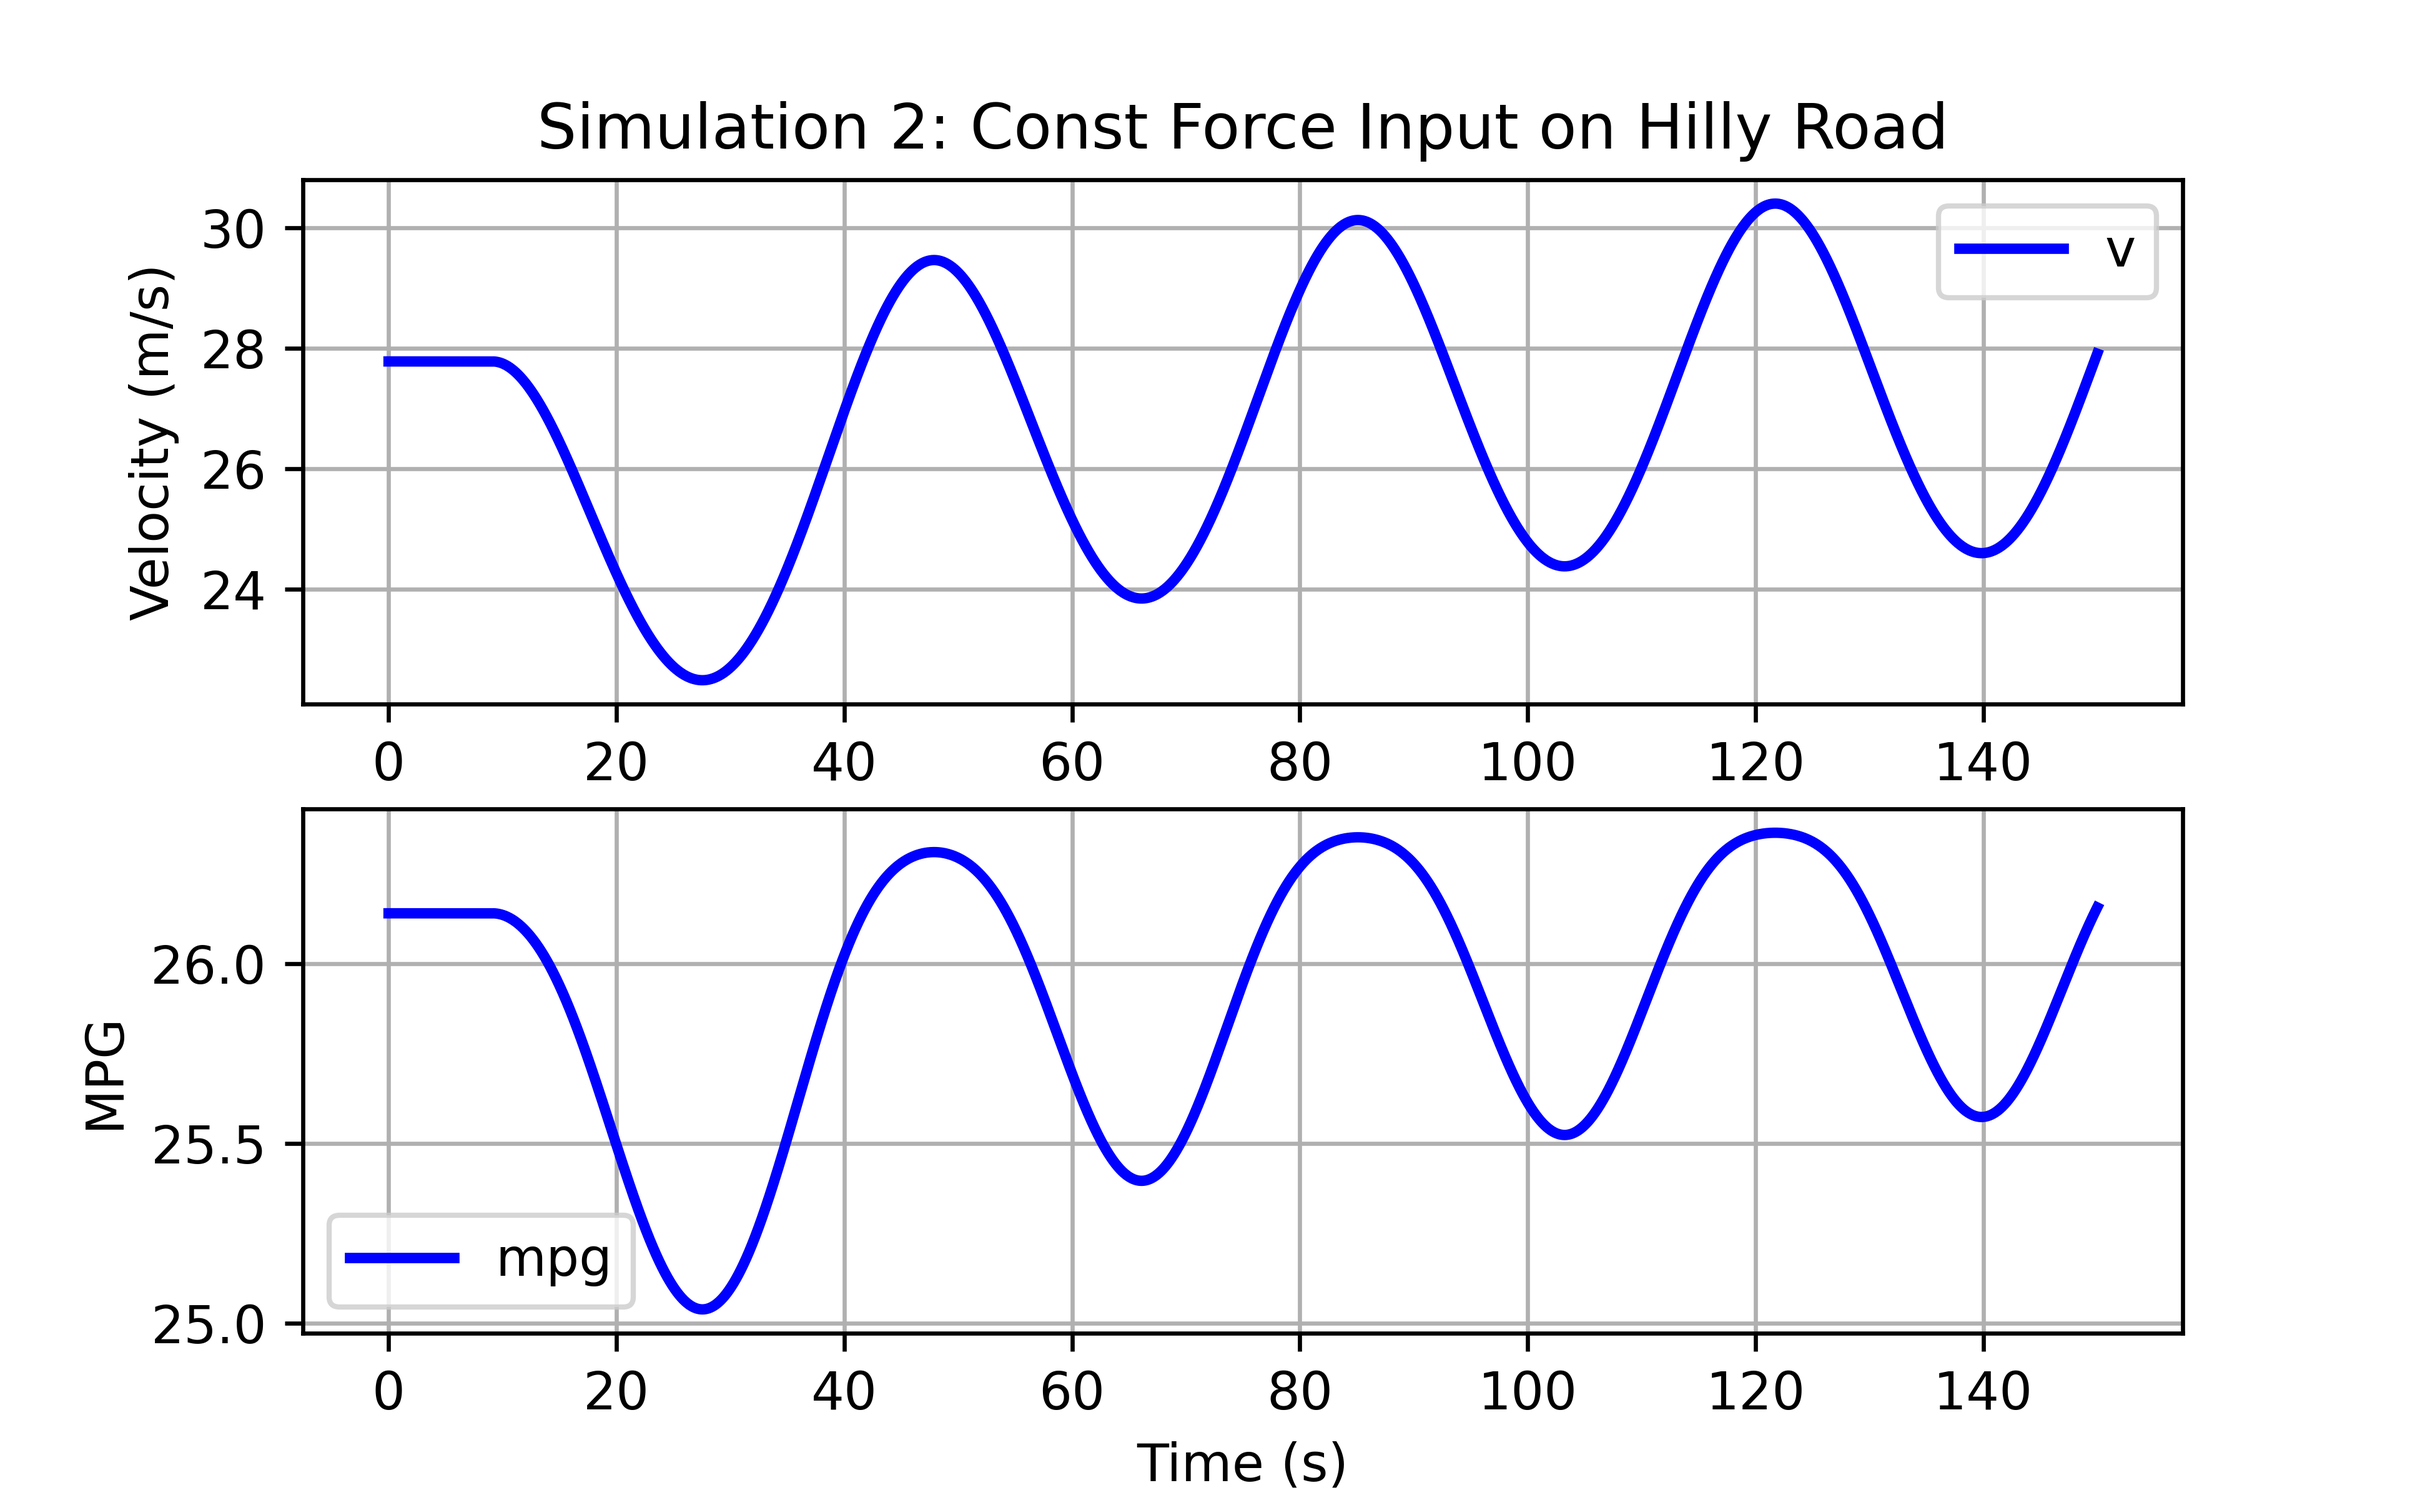
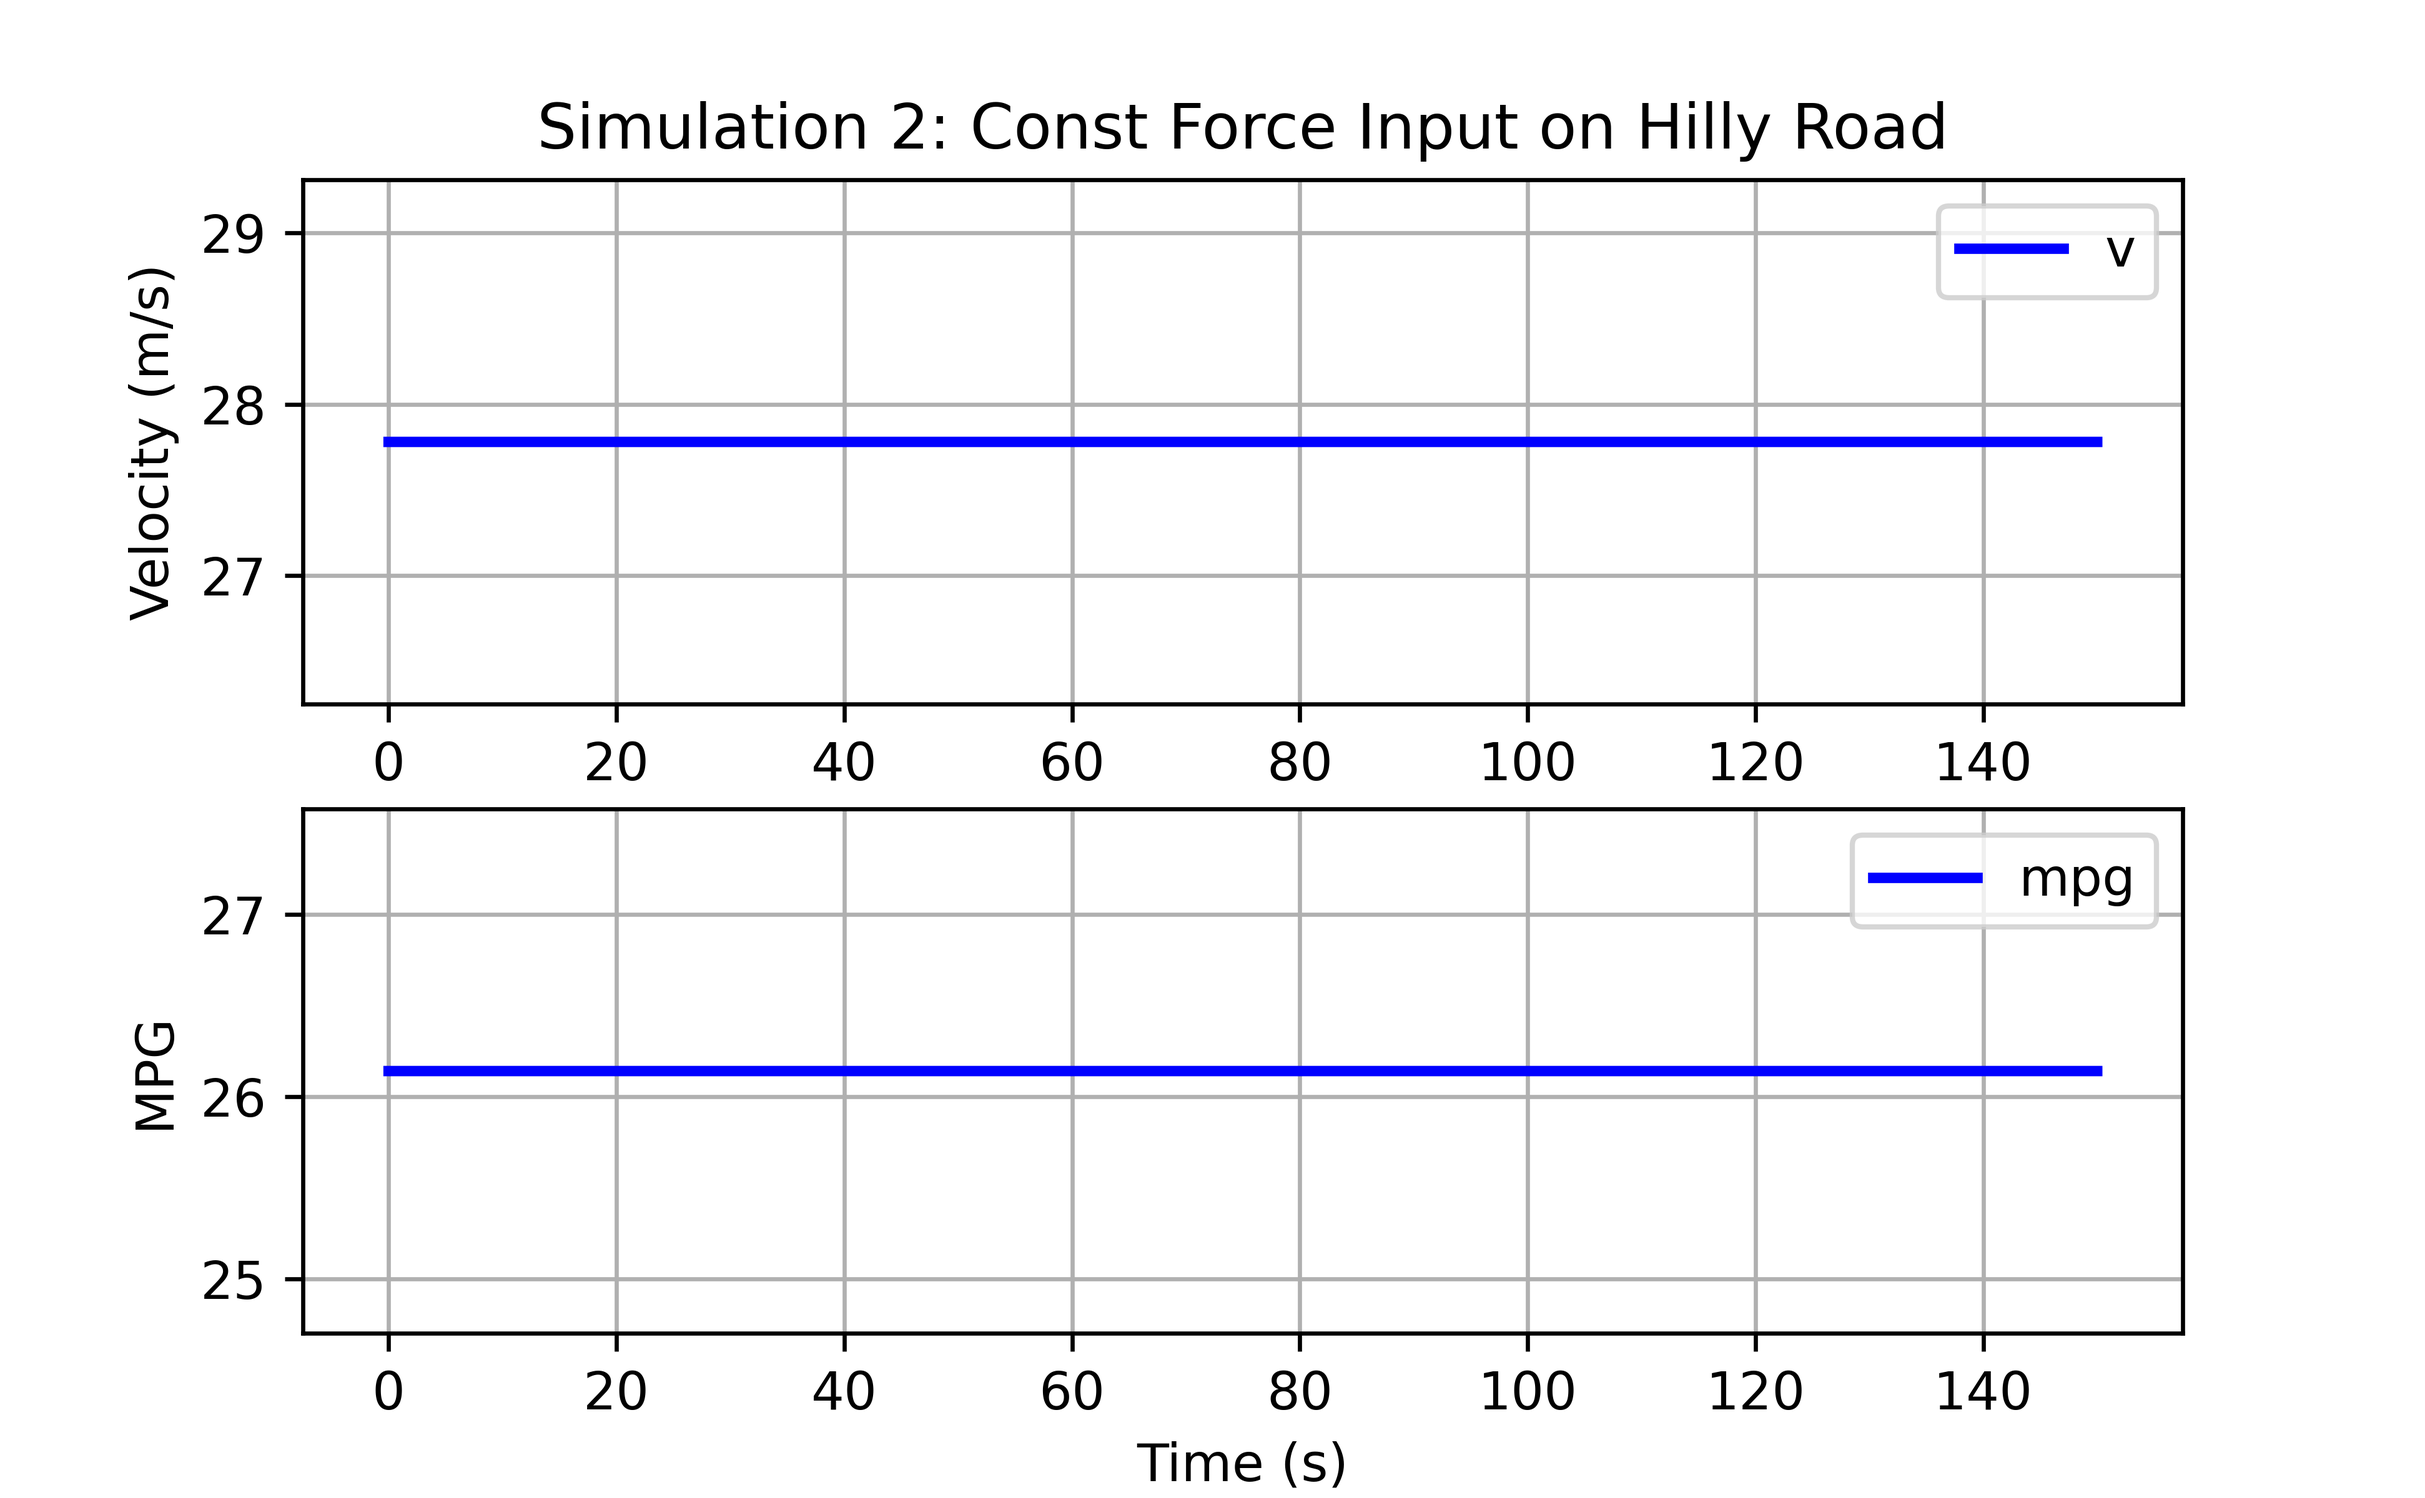
update task 1 with new car, not finished

diff --git a/interactiveSim/Task1.py b/interactiveSim/Task1.py
@@ -135,10 +135,10 @@ if __name__ == "__main__":
 
 
 #============Validation of model===============
-from car import car
+from car import Car
 mpg_conversion = 1761.59 #calculated by hand
 
-def simulate(car_obj, Fd_func, duration=150):
+def simulate(car_obj, Fd_func, duration=150, grade = None):
     #time vector
     t_vec = np.arange(0, duration, car_obj.Ts)
 
@@ -149,8 +149,11 @@ def simulate(car_obj, Fd_func, duration=150):
 
     for t in t_vec:
         Fd_input = Fd_func(t)
-        speed, x_pos, fuel = car_obj.update(Fd_input, 0)
-        beta_val = car_obj.get_road_grade()
+
+        # Interp for grade at x
+        grade_at_x = ... #TODO 
+        speed, x_pos, fuel = car_obj.update(Fd_input, 0, grade_at_x)
+
 
         if len(mpg_log) > 0: #skip if on first test
             pass
@@ -174,7 +177,7 @@ def simulate(car_obj, Fd_func, duration=150):
     return t_log, v_log, mpg_log
 
 #====Sim 1, flat road=====
-car_1 = car(Ts=0.1/step_size, initial_speed=27.78)
+car_1 = Car(Ts=0.1/step_size, initial_speed=27.78)
 
 flat_beta = np.zeros_like(x)
 car_1.road_beta = np.deg2rad(flat_beta)
@@ -212,7 +215,7 @@ if __name__ == "__main__":
     plt.show()
 
 #====Sim 2, Amp=3=====
-car_2 = car(Ts=1.0/step_size, initial_speed=27.78)
+car_2 = Car(Ts=1.0/step_size, initial_speed=27.78)
 
 sim_x = np.arange(0, 6101, 1)
 sim_beta_deg = Amp * np.sin(2*np.pi/1000*sim_x + 300)
@@ -225,7 +228,7 @@ car_2.road_beta = sim_beta_rad
 def const_force(t):
     return F_eq_val
 
-t2, v2, mpg2 = simulate(car_2, const_force)
+t2, v2, mpg2 = simulate(car_2, const_force, grade=sim_beta_rad)
 
 #plot
 plt.figure(figsize=figsize)
